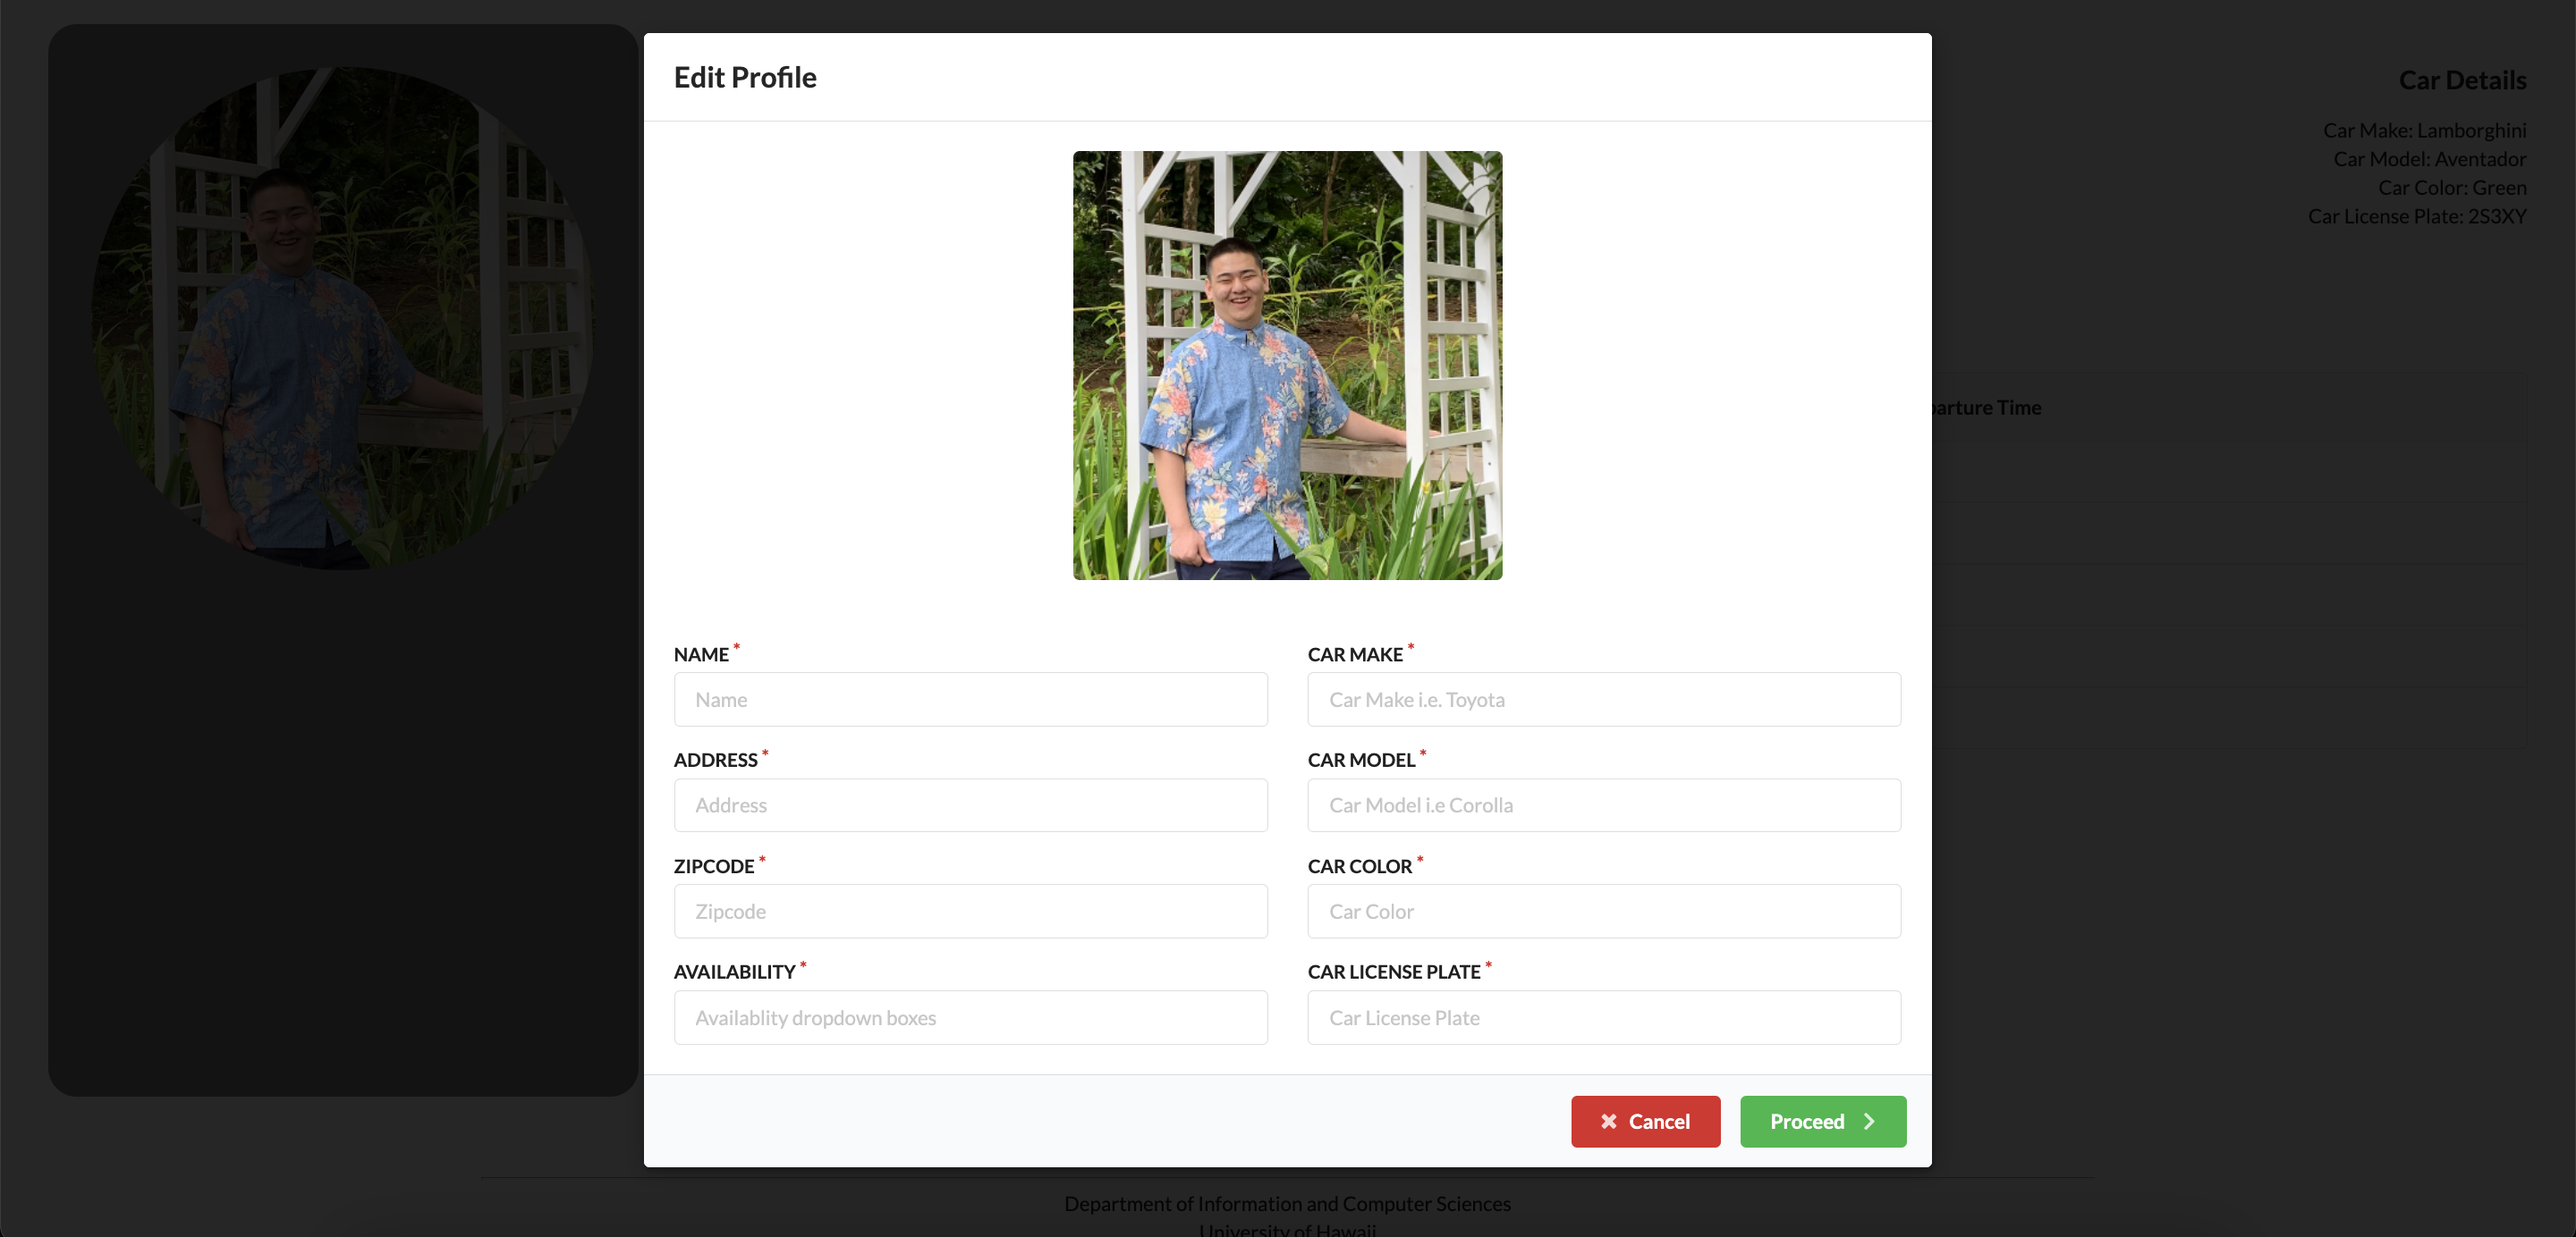
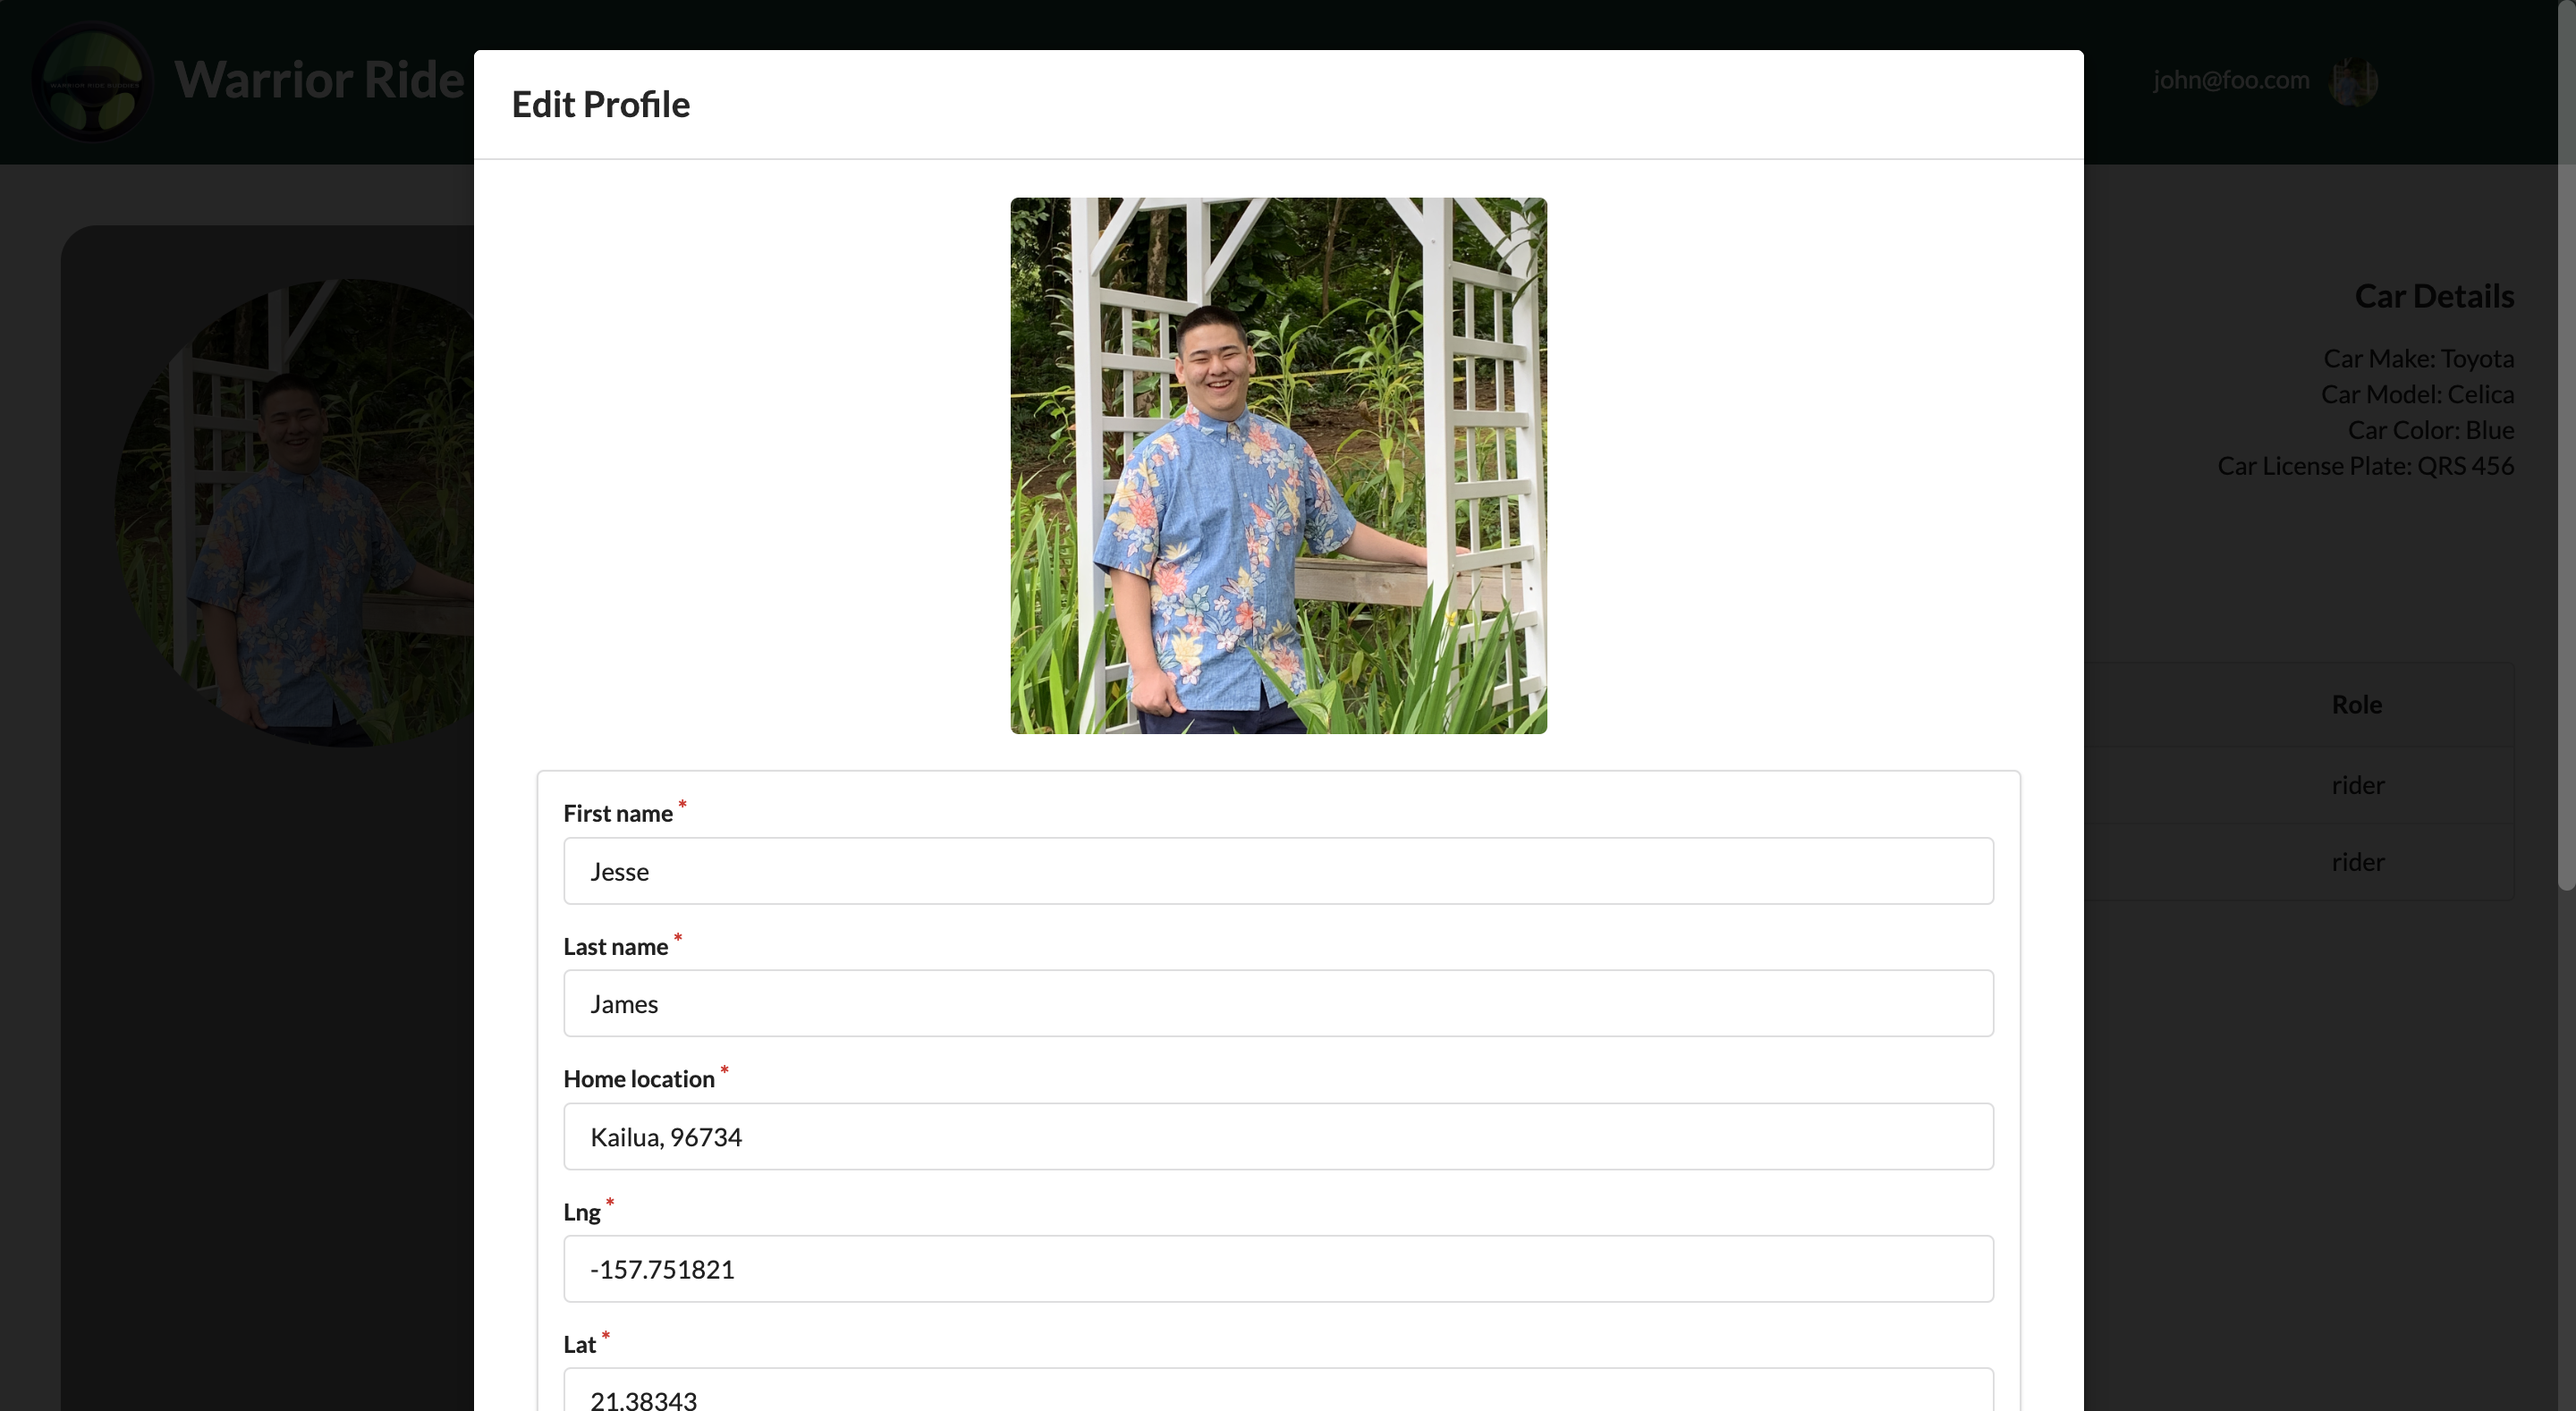
Milestone 2 update

diff --git a/index.md b/index.md
@@ -33,7 +33,8 @@ Here is our [deployed app](http://188.166.83.198/#/).
 <img src="images/ProfilePage.png">
 <img src="images/EditProfilePage.png">
 <img src="images/InboxPage.png">
-<img src="images/MessagesPage.png">
+<img src="images/Messages.png">
+<img src="images/ViewProfilesPage.png">
 <img src="images/AdminPage.png">
 
 ## Development History
@@ -48,6 +49,14 @@ For this milestone, our teammates dedicated around a week and half. In this time
 
 ### Milestone #2:
 [M2 project page](https://github.com/warrior-ride-buddies/warrior-ride-buddies/projects/2)
+For this milestone, our teammates dedicated around a week and half. In this time we:
+* Allowed users to create accounts that are usable in the application
+  * Location and time per day can be specified per person
+  * Car information can be recorded
+* Users can filter pins on the main page to find riders or drivers suitable for their schedule
+
+### Milestone #2:
+[M2 project page](https://github.com/warrior-ride-buddies/warrior-ride-buddies/projects/3)
 
 ## Contact Us
 Here are the developers of this application. If you want to get in contact with them, here are their professional portfolios:
